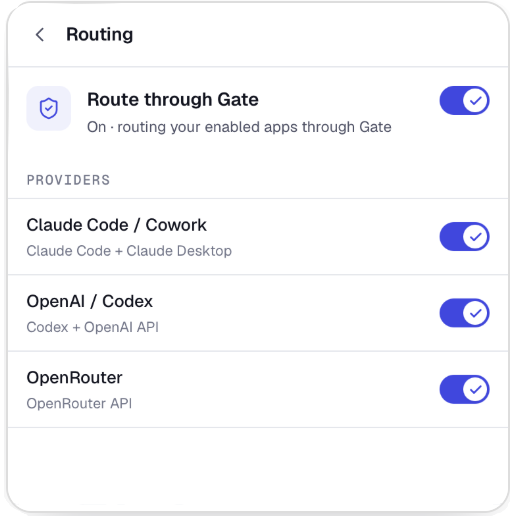
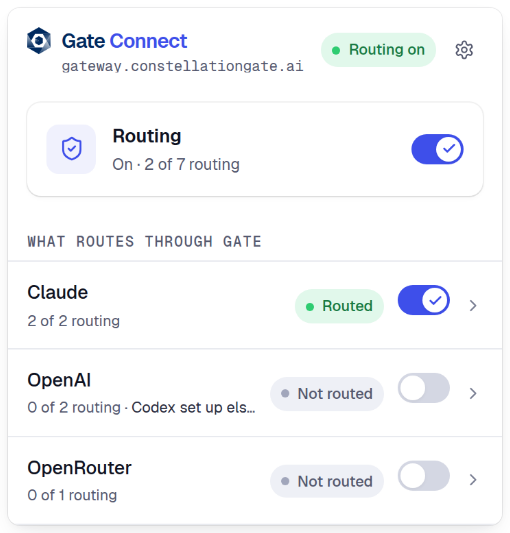
One vocabulary, and a tour that shows the app that shipped
**The tour taught a deleted UI.** Step 2's hero was a screenshot of the
Routing sub-screen: a back chevron, a PROVIDERS label, and rows named
"Claude Code / Cowork" and "OpenAI / Codex". Routing was merged into Home
and the families were renamed on this branch, so the first thing a new
user saw was a product that no longer exists. Regenerated from the
current build. Its caption, alt text and body copy followed: "Protection
is a per-app choice" became routing (the app never says protection), and
"opencode" became "OpenCode".

**Two labels, one word.** The header pill and a family row could both
read "Partly routed" on the same screen meaning different things: the
header meant the certificate is untrusted, the row meant one member of
two. The header now says "Needs trust", which is both specific and the
word the member pill already uses for that exact cause.

**Smaller truths.** "Free up some space on your Mac" shipped to Windows
and Linux. "Couldn't toggle the provider" surfaced the noun PRODUCT.md
removed from the UI, on the error a user sees when an app row fails.
Settings showed the gateway host and its full URL on adjacent lines and
truncated both; the host stays, the copy button is what guarantees
exactness. An org with no slug rendered a leading "·".

Not changed: errors.ts's "Open System Settings → Privacy & Security"
reads as macOS-only but only fires on errSecInteraction, which is a macOS
Security.framework code, so the branch cannot reach another platform.
[…]

diff --git a/src/screens/Onboarding.tsx b/src/screens/Onboarding.tsx
@@ -23,11 +23,11 @@ function RoutingHero() {
     <figure>
       <img
         src={routingScreen}
-        alt="Gate Connect routing screen: a Route through Gate toggle above per-app toggles"
+        alt="The Gate Connect popover: a Routing switch above one row per model family"
         className="mx-auto block w-full max-w-[256px]"
       />
       <figcaption className="mt-1.5 text-[10.5px] text-gc-ink-3">
-        The Routing screen in Gate Connect
+        The Gate Connect popover
       </figcaption>
     </figure>
   );
@@ -82,9 +82,9 @@ function buildSteps(platform: Platform): Step[] {
     {
       hero: <RoutingHero />,
       title: "How to turn it on",
-      sub: "Protection is a per-app choice: turn on the apps you want Gate to cover.",
+      sub: "Routing is a per-app choice: turn on the apps you want Gate to cover.",
       body: [
-        "For Claude Code, Codex, and opencode, Gate Connect points the app's own config at your gateway and restores it when you disconnect. For apps like Claude Desktop or ChatGPT, it routes the provider's domain through a local proxy.",
+        "For Claude Code, Codex, and OpenCode, Gate Connect points the app's own config at your gateway and restores it when you disconnect. For apps like Claude Desktop or ChatGPT, it routes the provider's domain through a local proxy.",
         "Connected apps route through Gate; unselected apps stay unchanged. Your Gate key stays in the operating system keychain, not a plain file.",
       ],
     },

diff --git a/src/lib/errors.ts b/src/lib/errors.ts
@@ -146,7 +146,7 @@ export function classifyError(rawInput: unknown, context: ErrorContext): Classif
   if (lc.includes("no space") || lc.includes("disk full")) {
     return {
       title: "Not enough disk space",
-      hint: "Free up some space on your Mac and try again.",
+      hint: "Free up some disk space and try again.",
       raw,
     };
   }
@@ -162,7 +162,7 @@ export function classifyError(rawInput: unknown, context: ErrorContext): Classif
     close_agents: "Couldn't close the running tools and apps",
     quit_disable: "Couldn't disconnect the tools",
     proxy_toggle: "Couldn't toggle routing",
-    provider_toggle: "Couldn't toggle the provider",
+    provider_toggle: "Couldn't change that app's routing",
     trust_ca: "Couldn't trust the certificate",
     untrust_ca: "Couldn't remove the certificate trust",
     startup: "Couldn't load state at startup",

diff --git a/src/screens/Settings.tsx b/src/screens/Settings.tsx
@@ -321,11 +321,12 @@ export function Settings({
           <Icon name="cube" size={16} />
         </div>
         <div className="min-w-0 flex-1">
+          {/* Host only. The full URL sat right under it and both truncated
+              ("gateway.constellationgat…" over "https://gateway.constell…"),
+              so the second line spent a row saying less exactly the same
+              thing. The copy button is what guarantees exactness. */}
           <div className="truncate text-[13px] font-medium text-gc-ink">
             {hostOf(account.gateway_base_url)}
-          </div>
-          <div className="truncate font-mono text-[10.5px] text-gc-ink-3">
-            {account.gateway_base_url}
           </div>
         </div>
         <ConnPill

diff --git a/src/screens/OrgPicker.tsx b/src/screens/OrgPicker.tsx
@@ -123,7 +123,7 @@ onReauth,
               <div className="min-w-0 flex-1">
                 <div className="truncate text-[13px] font-medium text-gc-ink">{org.name}</div>
                 <div className="truncate font-mono text-[10.5px] text-gc-ink-3">
-                  {org.slug} · {org.role}
+                  {[org.slug, org.role].filter(Boolean).join(" · ")}
                 </div>
               </div>
               {choosing === org.orgId && (

diff --git a/src/components/gc/PopHeader.tsx b/src/components/gc/PopHeader.tsx
@@ -40,7 +40,7 @@ export function PopHeader({
             pill === "connected"
               ? "Routing on"
               : pill === "partial"
-                ? "Partly routed"
+                ? "Needs trust"
                 : "Routing off"
           }
         />
